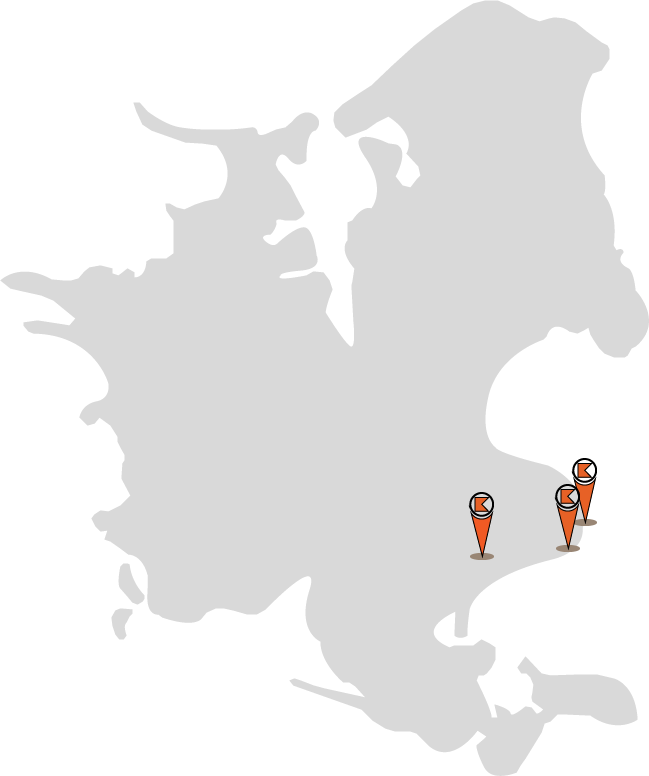
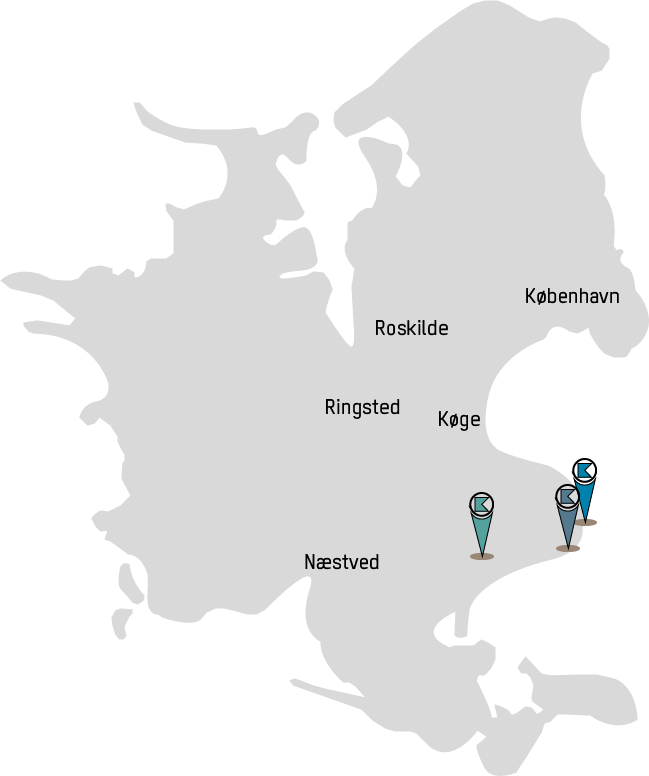
rettelser ud fra brugertest

diff --git a/index.html b/index.html
@@ -33,6 +33,16 @@
 
             margin-bottom: 1rem;
         }
+
+        .titel {
+            color: #55798e;
+        }
+        .titel2 {
+            color: #54a29e;
+        }
+        .titel3 {
+            color: #0082ad;
+        }
         .post:nth-child(1) {
             grid-column: 2;
             grid-row: 1;
@@ -45,9 +55,36 @@
             grid-column: 1;
             grid-row: 1;
             padding: 0 1.5rem 0 1.5rem;
-            width: 100%;
+            width: 70%;
+        }
+        @media only screen and (min-width: 667px){
+            .wrap img {
+
+            padding: 0 1.5rem 0 1.5rem;
+            width: 80%;
+        }
+            .wrap {
+
+            margin: 0 5rem 0 5rem;
+            margin-bottom: 1rem;
+        }
+        .post:nth-child(1) {
+            grid-column: 2;
+            grid-row: 1;
+        }
+        .post:nth-child(2) {
+            max-width: 300px;
+            grid-column: 2;
+            grid-row: 1;
+        }
+        .wrap img {
+            grid-column: 1;
+            grid-row: 1;
+            padding: 0 1.5rem 0 1.5rem;
+            width: 85%;
         }
 
+        }
     @media only screen and (min-width: 1024px){
         nav {
             position: static;
@@ -65,6 +102,7 @@
         pointer-events: none;
 
     }
+
         .sticky {
             position: fixed;
             top: 0;
@@ -95,12 +133,13 @@
         .post:nth-child(2) {
             grid-column: 2;
             grid-row: 1;
+            max-width: none;
         }
         .wrap img {
             grid-column: 1;
             grid-row: 1;
             padding: 0 1.5rem 0 1.5rem;
-            width: 75%;
+            width: 85%;
         }
 
 }
@@ -152,7 +191,7 @@
     </header>
     <section id="splashvideo">
 
-        <video autoplay src="video/kalklandv2.mp4" width="100%" controls></video>
+        <video autoplay src="video/videokalkland.mp4" muted controls width="100%"></video>
 
         <!-- Optional: some overlay text to describe the video -->
     </section>
@@ -194,6 +233,9 @@
 
 
     <footer>
+      <a href="kontakt.html">
+       <p class="hide show">Kontakt</p>
+       </a>
         <div class="social"><a href="YOUR FACEBOOK URL">
                 <img src="img/SVG/facebook-icon.svg" alt="Facebook ikon">
             </a>

diff --git a/style.css b/style.css
@@ -118,7 +118,12 @@ h3 {
     margin-bottom: 1rem;
     font-family: 'limestonelight';
 }
-
+.hide {
+            opacity: 0;
+        }
+.titel, .titel2, .titel3 {
+    font-size: 1.5rem;
+}
 /************ GENERELT SLUT *************/
 
 /************ NAVIGATION START *************/
@@ -668,10 +673,26 @@ footer {
 
     }
 
+    footer {
+            margin-top: 5rem;
+        }
     .dato {
         margin-right: 1em;
     }
 
+    .hide {
+        opacity: 1;
+    }
+    footer p{
+        margin-top: 2rem;
+        margin-left: 2rem;
+        font-family: 'limestoneregular';
+        color: white;
+        cursor: pointer;
+    }
+    footer p:hover {
+        color: black;
+    }
 
 
 }

diff --git a/kontakt.html b/kontakt.html
@@ -100,7 +100,7 @@
             display: grid;
             grid-template-columns: 1fr 1fr 1fr;
             grid-template-rows: 1fr;
-            margin: 2vw 0vw 5vw 0vw;
+
         }
         .kontakt-overskrift {
             padding: 0 1.5rem 0 1.5rem;
@@ -178,6 +178,9 @@
 
     <!--- HER STARTER FOOTER -->
     <footer>
+       <a href="kontakt.html">
+       <p class="hide show">Kontakt</p>
+       </a>
         <div class="social"><a href="YOUR FACEBOOK URL">
                 <img src="img/SVG/facebook-icon.svg" alt="Facebook ikon">
             </a>

diff --git a/stevns-fort.html b/stevns-fort.html
@@ -112,6 +112,7 @@
     @media only screen and (min-width: 1024px){
         #splash {
             height: 30vw;
+            background-position: 50% 11%;
         }
 
         #mainwrap {
@@ -277,6 +278,9 @@
     <!--- HER STARTER FOOTER -->
 
     <footer>
+       <a href="kontakt.html">
+       <p class="hide show">Kontakt</p>
+       </a>
         <div class="social"><a href="YOUR FACEBOOK URL">
                 <img src="img/SVG/facebook-icon.svg" alt="Facebook ikon">
             </a>

diff --git a/Attraktioner.html b/Attraktioner.html
@@ -358,7 +358,7 @@
 
         footer {
     position: fixed;
-
+    margin-top: 0;
     width: 100%;
     height: 10%;
     background-color: #FE6400;
@@ -450,6 +450,9 @@
     </section>
 
     <footer>
+       <a href="kontakt.html">
+       <p class="hide show">Kontakt</p>
+       </a>
         <div class="social"><a href="YOUR FACEBOOK URL">
                 <img src="img/SVG/facebook-icon.svg" alt="Facebook ikon">
             </a>

diff --git a/stevns-klint.html b/stevns-klint.html
@@ -269,6 +269,9 @@ h2, h1 {
     <!--- HER STARTER FOOTER -->
 
     <footer>
+       <a href="kontakt.html">
+       <p class="hide show">Kontakt</p>
+       </a>
         <div class="social"><a href="YOUR FACEBOOK URL">
                 <img src="img/SVG/facebook-icon.svg" alt="Facebook ikon">
             </a>

diff --git a/aktuelt.html b/aktuelt.html
@@ -174,6 +174,9 @@
 
     <!--- HER STARTER FOOTER -->
     <footer>
+       <a href="kontakt.html">
+       <p class="hide show">Kontakt</p>
+       </a>
         <div class="social"><a href="YOUR FACEBOOK URL">
                 <img src="img/SVG/facebook-icon.svg" alt="Facebook ikon">
             </a>

diff --git a/geofaxebook.html b/geofaxebook.html
@@ -235,6 +235,9 @@
     <!--- HER STARTER FOOTER -->
 
     <footer>
+       <a href="kontakt.html">
+       <p class="hide show">Kontakt</p>
+       </a>
         <div class="social"><a href="YOUR FACEBOOK URL">
                 <img src="img/SVG/facebook-icon.svg" alt="Facebook ikon">
             </a>

diff --git a/geomuseum.html b/geomuseum.html
@@ -281,6 +281,9 @@
     <!--- HER STARTER FOOTER -->
 
     <footer>
+       <a href="kontakt.html">
+       <p class="hide show">Kontakt</p>
+       </a>
         <div class="social"><a href="YOUR FACEBOOK URL">
                 <img src="img/SVG/facebook-icon.svg" alt="Facebook ikon">
             </a>

diff --git a/om-os.html b/om-os.html
@@ -152,6 +152,9 @@
 
     <!--- HER STARTER FOOTER -->
     <footer>
+       <a href="kontakt.html">
+       <p class="hide show">Kontakt</p>
+       </a>
         <div class="social"><a href="YOUR FACEBOOK URL">
                 <img src="img/SVG/facebook-icon.svg" alt="Facebook ikon">
             </a>

diff --git a/stevnsfortbook.html b/stevnsfortbook.html
@@ -234,6 +234,9 @@
     <!--- HER STARTER FOOTER -->
 
     <footer>
+       <a href="kontakt.html">
+       <p class="hide show">Kontakt</p>
+       </a>
         <div class="social"><a href="YOUR FACEBOOK URL">
                 <img src="img/SVG/facebook-icon.svg" alt="Facebook ikon">
             </a>

diff --git a/stevnsklintbook.html b/stevnsklintbook.html
@@ -235,6 +235,9 @@
     <!--- HER STARTER FOOTER -->
 
     <footer>
+       <a href="kontakt.html">
+       <p class="hide show">Kontakt</p>
+       </a>
         <div class="social"><a href="YOUR FACEBOOK URL">
                 <img src="img/SVG/facebook-icon.svg" alt="Facebook ikon">
             </a>
